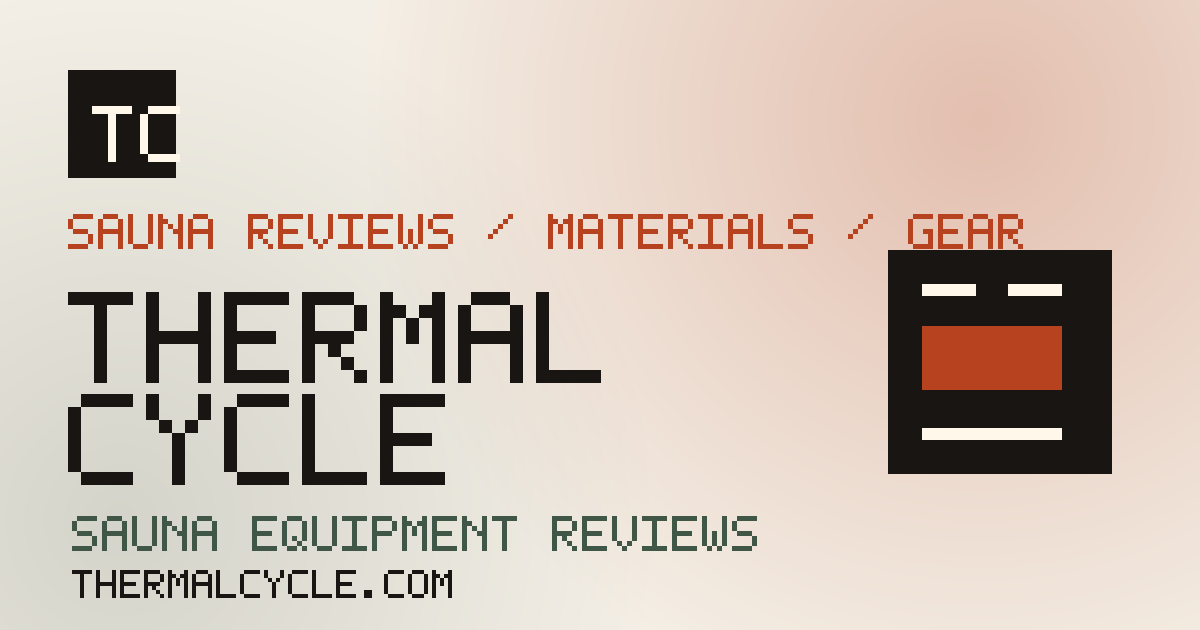
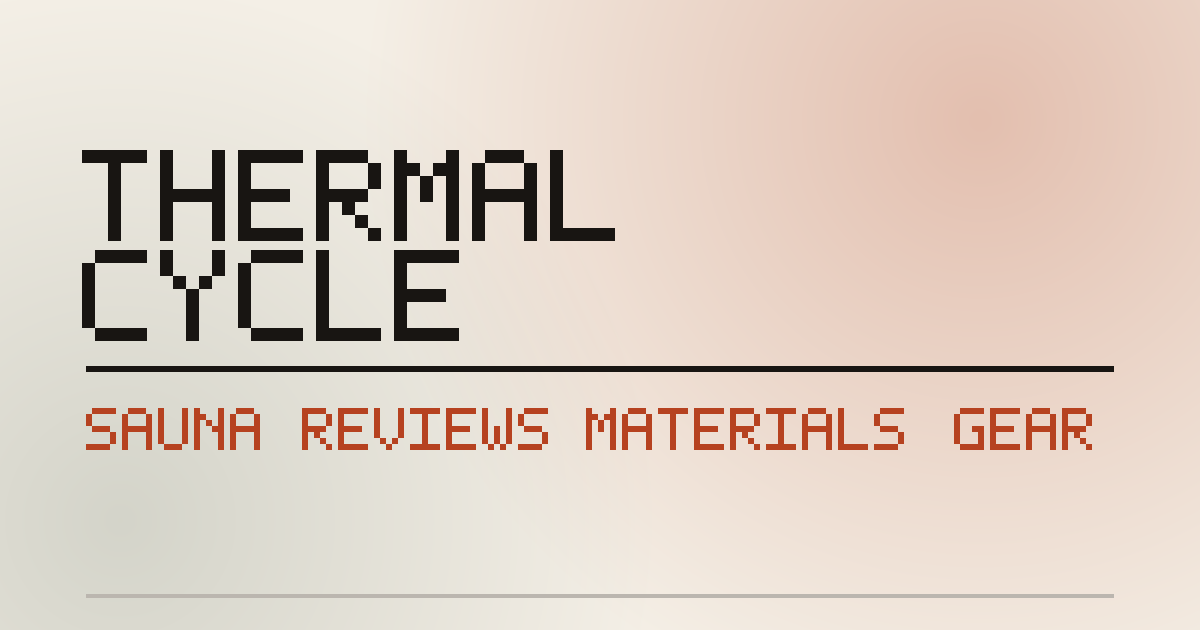
Simplify social sharing image

diff --git a/scripts/create-og-image.js b/scripts/create-og-image.js
@@ -129,20 +129,14 @@ for (let y = 0; y < height; y += 1) {
   }
 }
 
-fillRect(68, 70, 108, 108, ink);
-drawText("TC", 92, 106, 8, cream, 1);
+drawText("THERMAL", 82, 150, 13, ink, 1);
+drawText("CYCLE", 82, 250, 13, ink, 1);
+drawText("SAUNA REVIEWS", 86, 408, 6, heat, 1);
+drawText("MATERIALS", 586, 408, 6, heat, 1);
+drawText("GEAR", 954, 408, 6, heat, 1);
 
-drawText("SAUNA REVIEWS / MATERIALS / GEAR", 68, 214, 5, heat, 1);
-drawText("THERMAL", 68, 292, 13, ink, 1);
-drawText("CYCLE", 68, 394, 13, ink, 1);
-drawText("SAUNA EQUIPMENT REVIEWS", 72, 516, 5, green, 1);
-drawText("THERMALCYCLE.COM", 72, 570, 4, ink, 1);
-
-fillRect(888, 250, 224, 224, ink);
-fillRect(922, 284, 54, 12, cream);
-fillRect(1008, 284, 54, 12, cream);
-fillRect(922, 428, 140, 12, cream);
-fillRect(922, 326, 140, 64, heat);
+fillRect(86, 366, 1028, 6, ink);
+fillRect(86, 594, 1028, 4, mix(ink, paper, 0.74));
 
 const ihdr = Buffer.alloc(13);
 ihdr.writeUInt32BE(width, 0);
